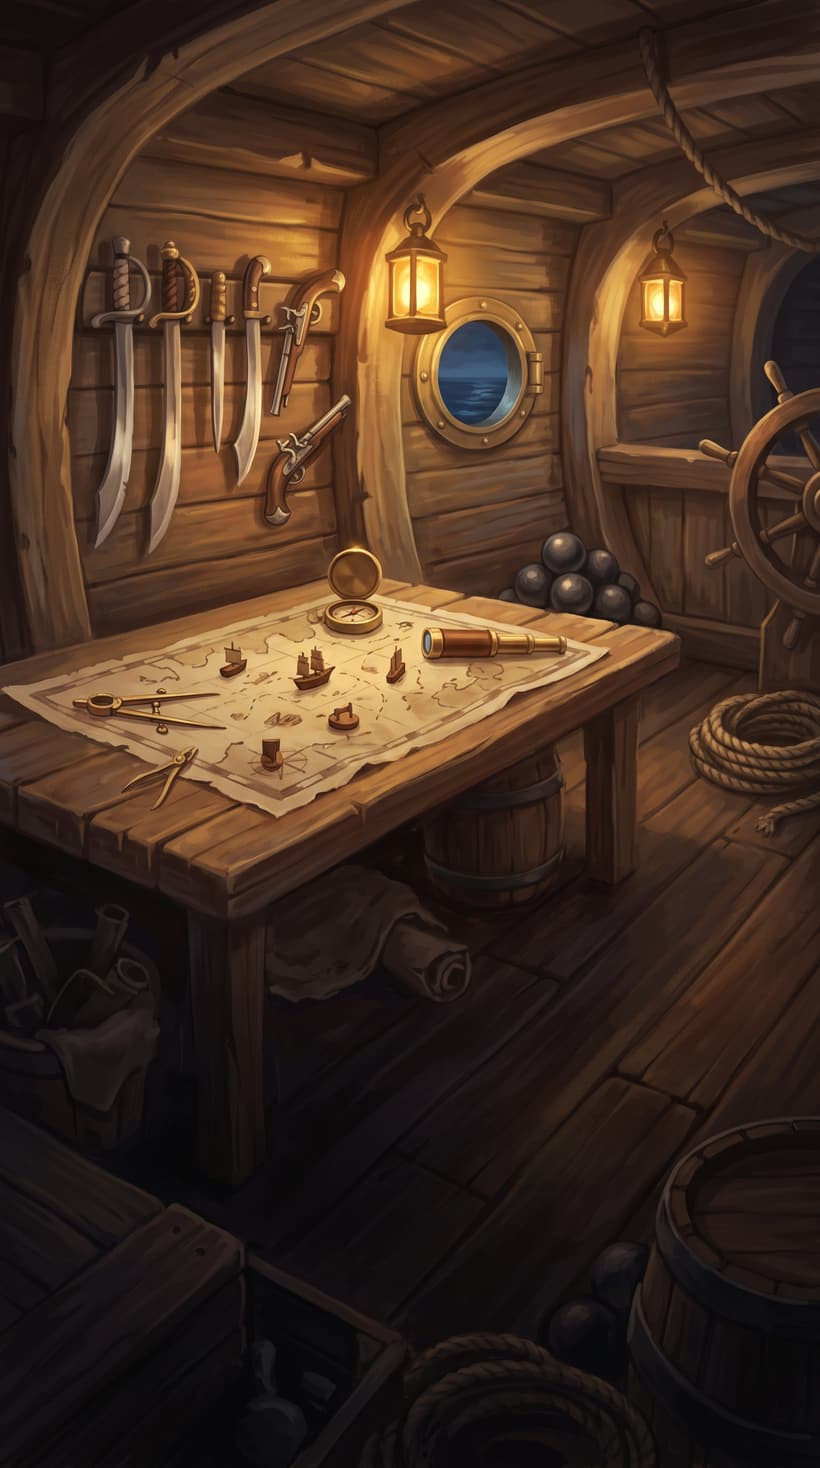
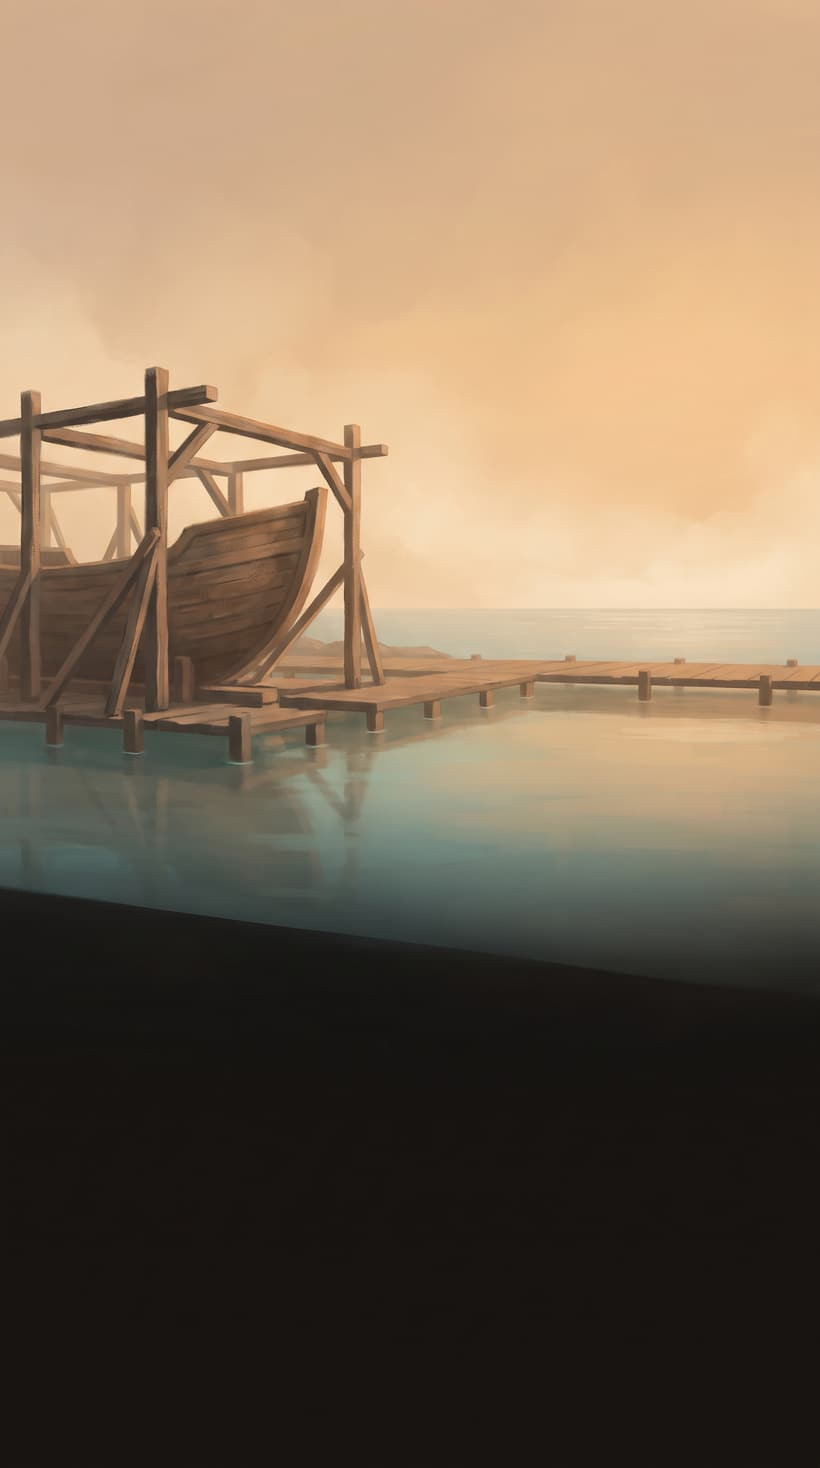
Loadout drawer: swap war-cabin for a sparse shipyard backdrop
Regenerate the loadout-drawer background as a minimal, atmospheric shipyard (a
hull in a timber dry-dock, a dock over calm dawn water, lots of open space)
instead of the object-heavy war-cabin. Nudge the scrim a touch darker
(0.74/0.85/0.95) so the header + tabs stay legible over the lighter dawn sky.

diff --git a/web/app/(app)/expeditions/ShipHero.tsx b/web/app/(app)/expeditions/ShipHero.tsx
@@ -1312,11 +1312,11 @@ export default function ShipHero({
                 left: 'max(0px, calc(50% - 240px))',
                 right: 'max(0px, calc(50% - 240px))',
                 zIndex: 101,
-                // Painted captain's war-cabin backdrop (fixed behind the drawer)
-                // under a dark scrim so the dense loadout UI stays legible. Solid
-                // colour fallback while the image loads.
+                // Painted shipyard backdrop (fixed behind the drawer) under a dark
+                // scrim so the dense loadout UI stays legible over the light dawn
+                // sky. Solid colour fallback while the image loads.
                 backgroundColor: '#060c14',
-                backgroundImage: 'linear-gradient(180deg, rgba(6,10,18,0.68) 0%, rgba(5,8,14,0.8) 46%, rgba(3,5,9,0.92) 100%), url(/ship-loadout-bg.jpg)',
+                backgroundImage: 'linear-gradient(180deg, rgba(6,10,18,0.74) 0%, rgba(5,8,14,0.85) 46%, rgba(3,5,9,0.95) 100%), url(/ship-loadout-bg.jpg)',
                 backgroundSize: 'cover',
                 backgroundPosition: 'center top',
                 backgroundRepeat: 'no-repeat',
